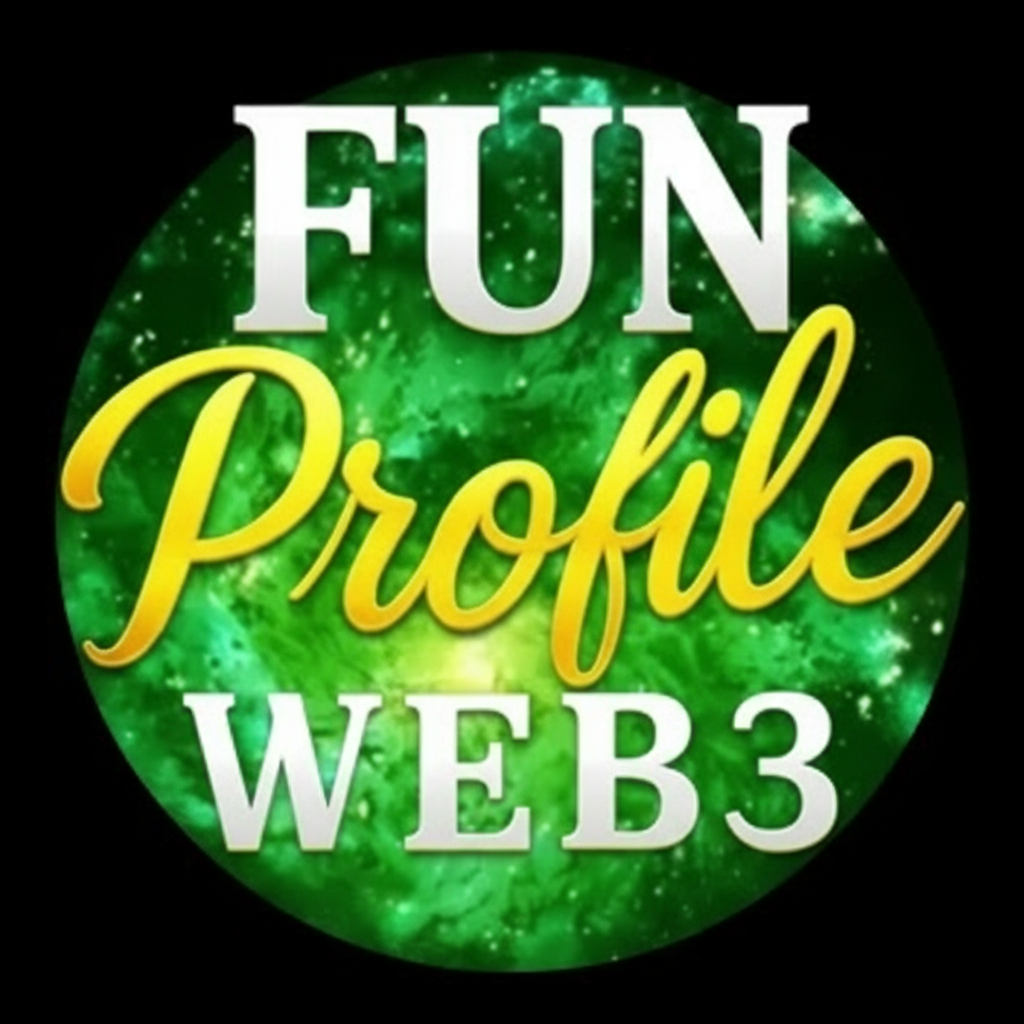
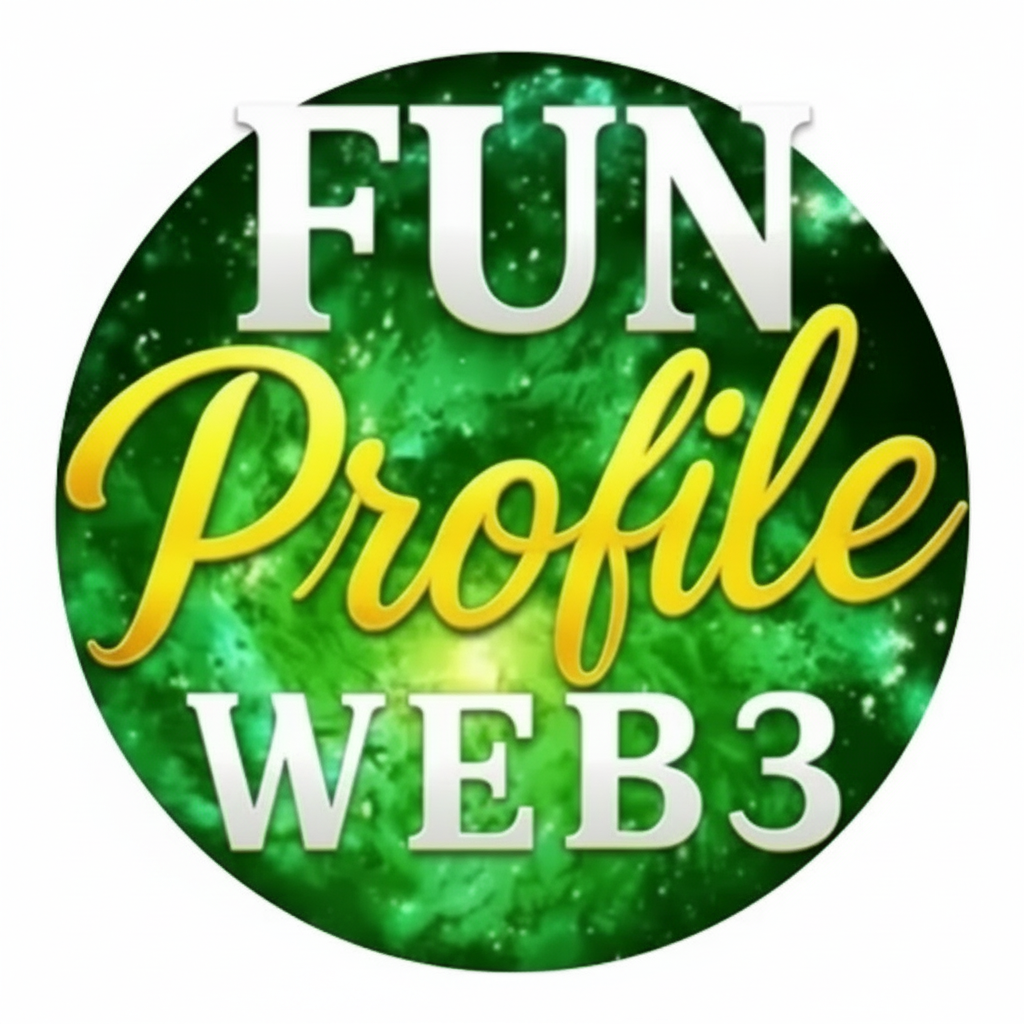
Changes

diff --git a/vite.config.ts b/vite.config.ts
@@ -21,7 +21,7 @@ export default defineConfig(({ mode }) => ({
         short_name: 'FUN Profile',
         description: 'Mạng xã hội Web3 kết hợp AI. Kết nối bạn bè, chia sẻ nội dung, kiếm phần thưởng Camly Coin.',
         theme_color: '#22c55e',
-        background_color: '#f0f2f5',
+        background_color: '#ffffff',
         display: 'standalone',
         orientation: 'portrait',
         scope: '/',
